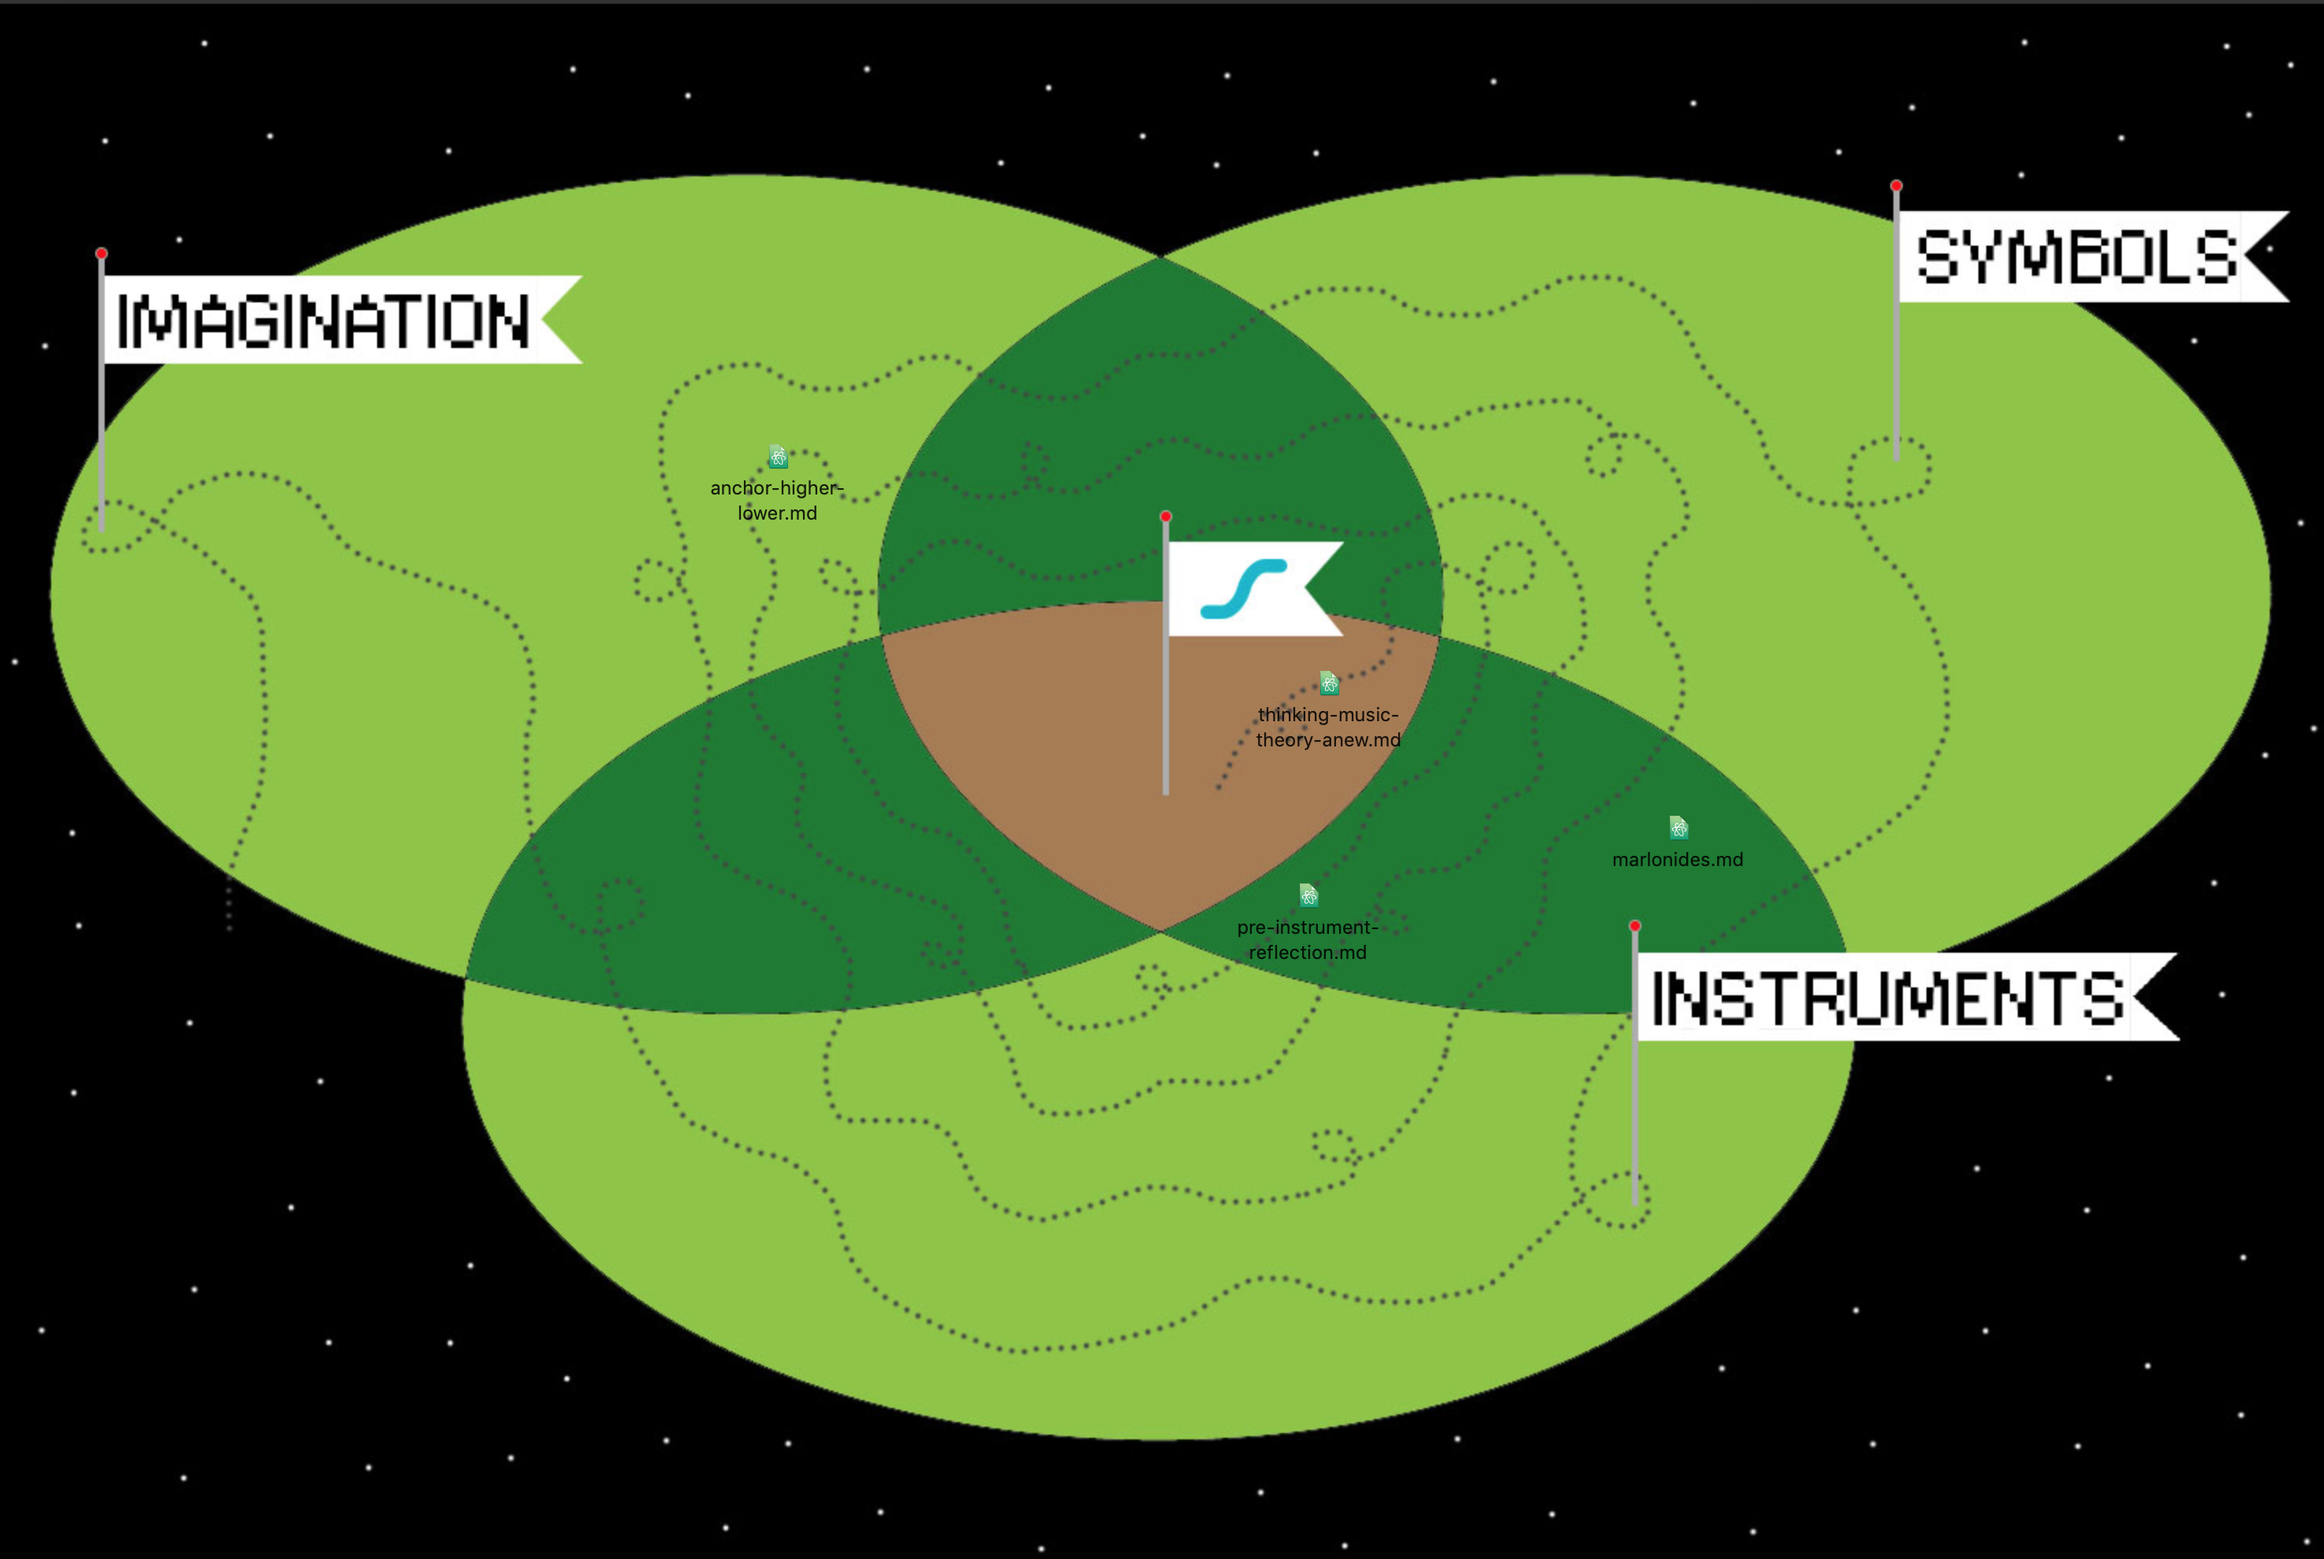
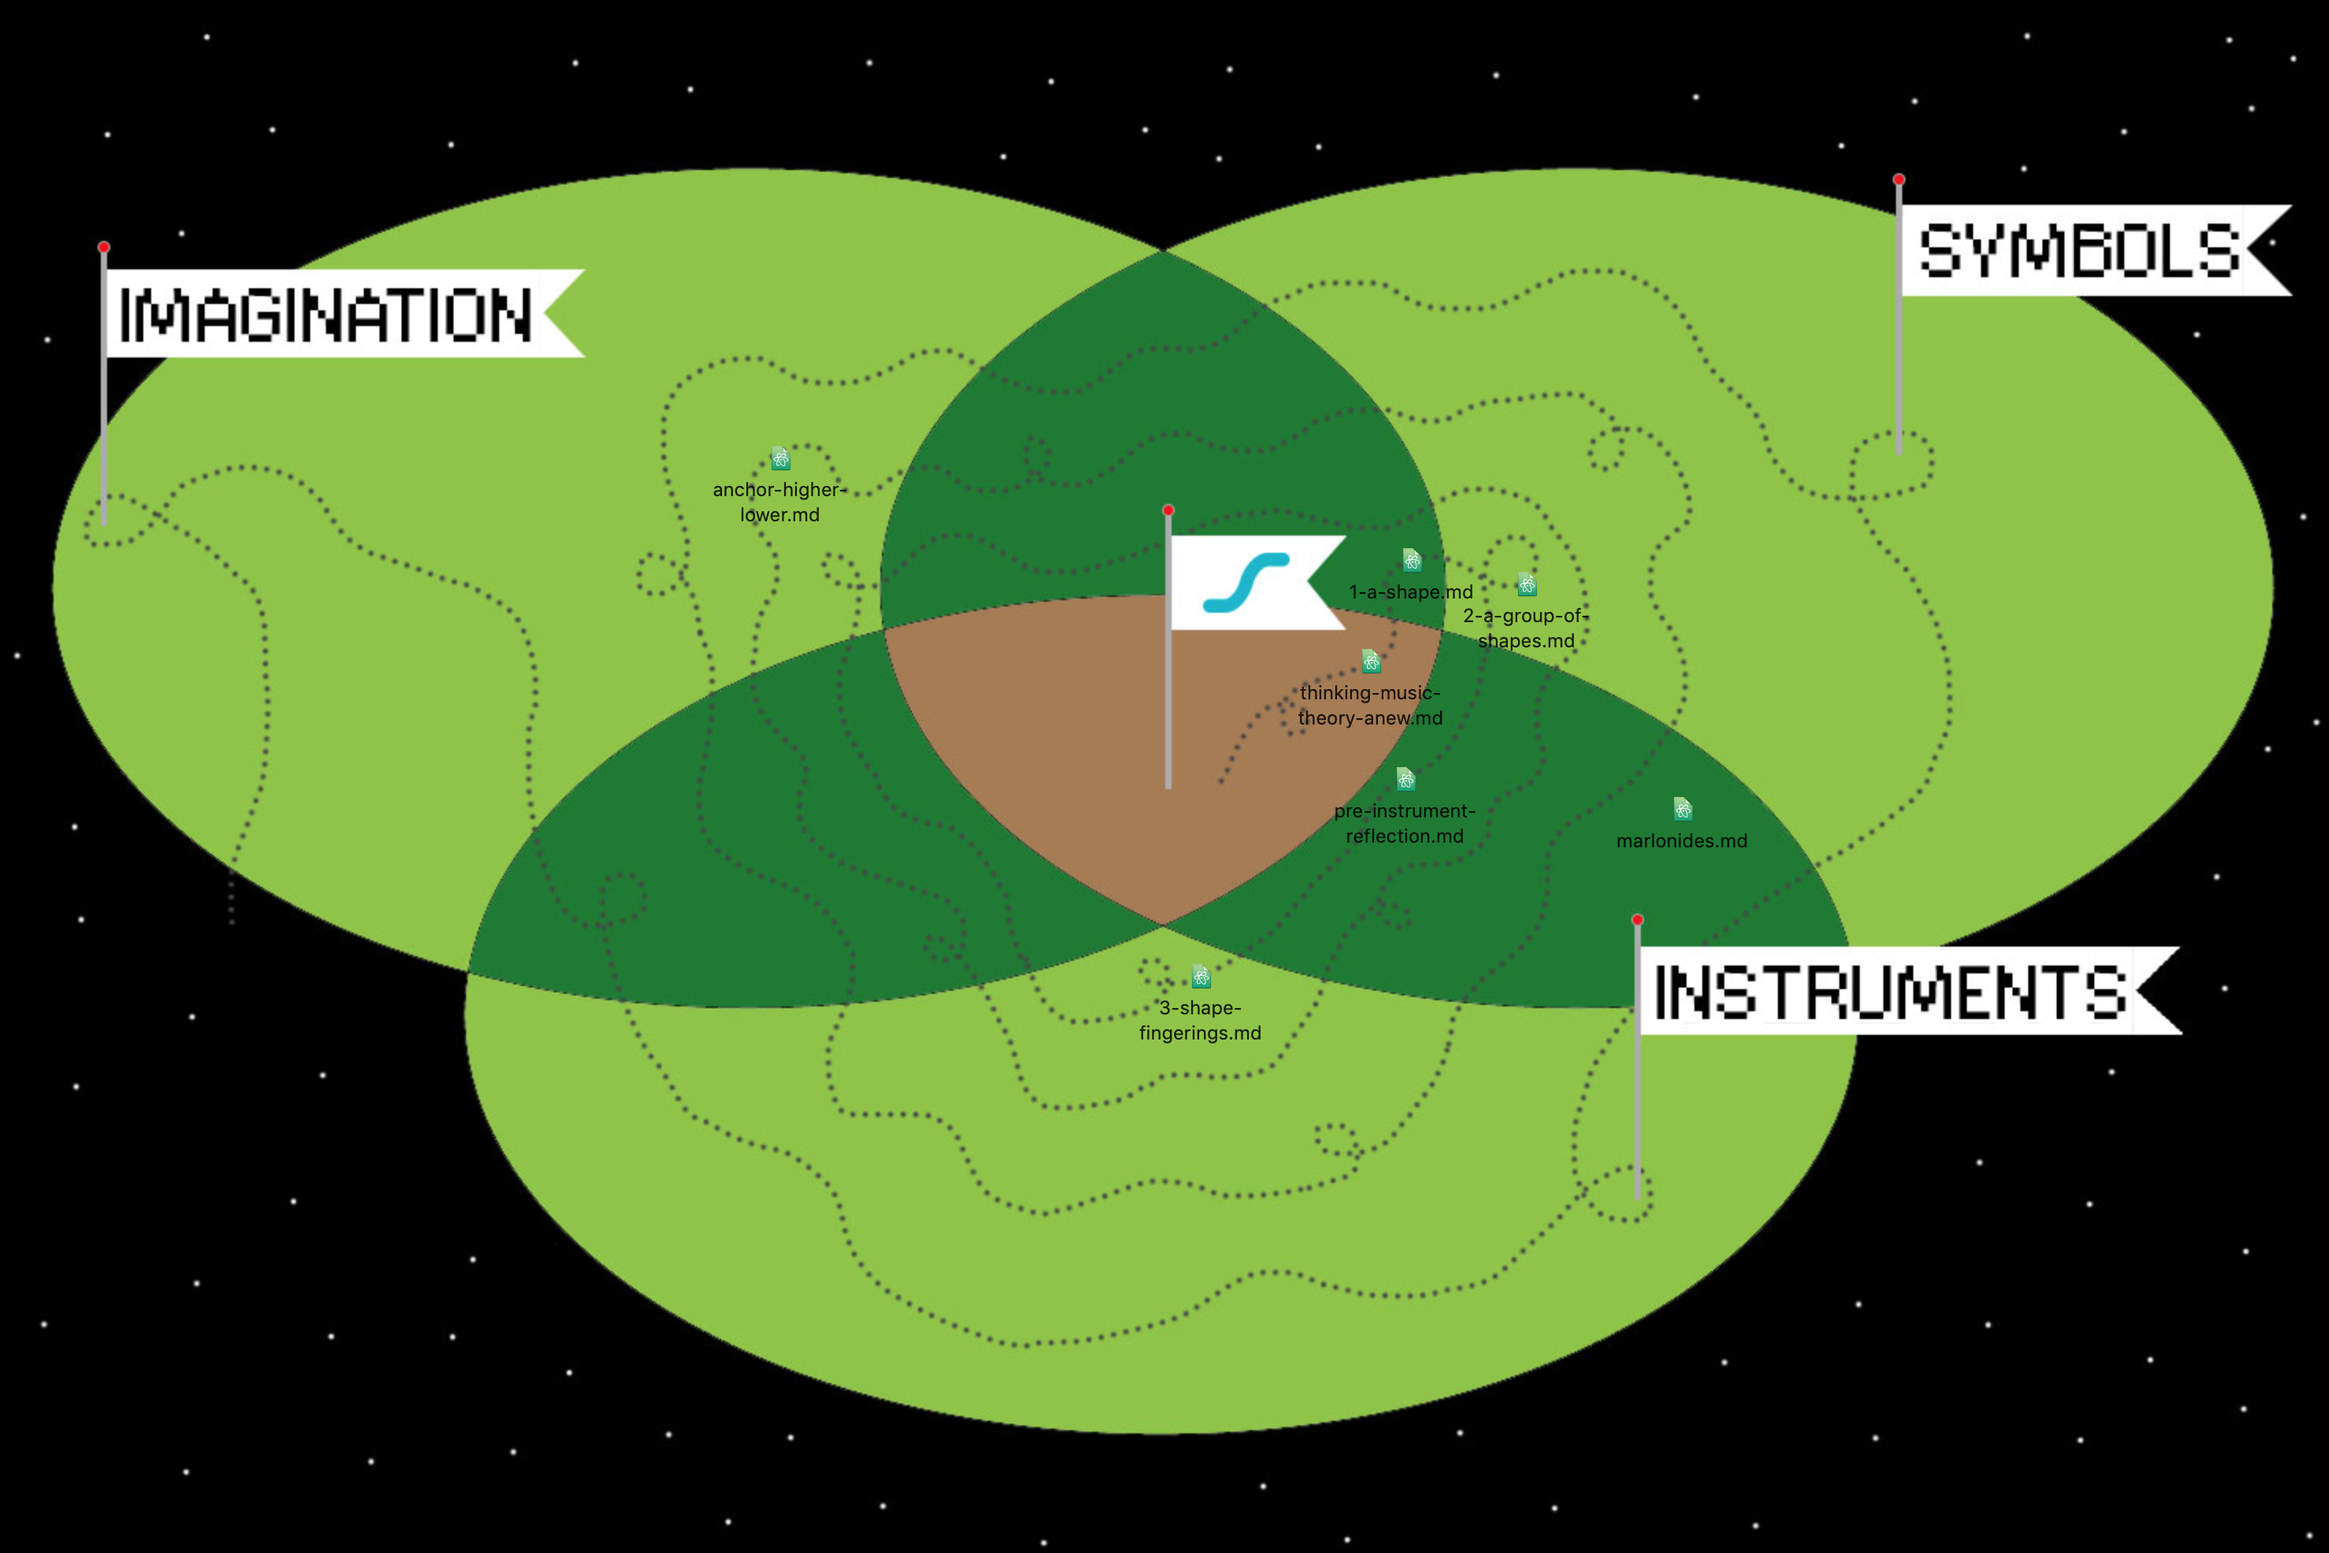
Set up first 3 lessons

diff --git a/world/path/3-shape-fingerings.md b/world/path/3-shape-fingerings.md
@@ -1,0 +1,72 @@
+# Shape Fingerings
+
+## Summary
+
+How hands match the keyboard, and how to play hands together in any shape, beginning on any note, using only one fingering pattern.
+
+This helps develop a natural technique and a tactile reference for playing without looking at the keyboard.
+
+## The Lesson
+
+[start with a demo of what we're gonna do and a little bit of why. think about what of the explanation below is meta-level stuff].
+
+This is too rote:
+
+  There's a relationship between our bodies, and the design of our instruments.
+
+  Look at your hands, they are mirror images of one another.
+
+  from a certain perspective, one side of the keyboard is also a mirror image of the other.
+
+  ![symm kybd](/media/08.2.14%20symm%20kybd.png)
+
+  Our pointer, middle, and ring fingers stick up above our thumbs and pinkies. The keyboard also has keys that stick up above the others.
+
+  What's more, the keyboard is a repeating pattern of hand-shaped groups of keys.
+
+  ![groups symm](/media/09.9.28%20groups%20symm.png)
+
+  By placing our fingers that stick up on the keys that stick up, we can feel how closely the contour of the keyboard matches the contour of our hands.
+
+  ![handsBS](/media/11.2.10%20handsBS.png)
+
+  This is the starting point for Shape Fingerings. Shape Fingerings are a guideline to help develop a natural finger technique and a tactile reference for playing without looking at the keyboard.
+
+  The central rule of Shape Fingerings is to align our fingers that stick up (pointer, middle, and ring fingers) with the keys that stick up (groups of 2 and 3 top keys), and then to move our fingers into each shape beginning from this position.
+
+Steps:
+
+1. just the top keys, all at once, then up and down the kybd. try to feel for it without looking. grab the groups, and your fingers are where they're supposed to be. try to get to where you're playing with the beat, or making up a beat. use the beat as an incentive to hit the notes in time. in fact, get to where you're playing with the beat without looking before moving on. that's a concrete challenge.
+2. add in thumbs. make it really distinct: "thumbs, 1, 2, 3, thumbs, 1, 2"
+3. move into the 5s, etc.
+
+take a break (regularly) and play around, too. don't just do scales.
+
+[A Shape plist]
+[Add5 plist]
+[Add4 plist]
+[Add3 plist]
+
+then back to [a_group] plist to add the rest.
+
+
+
+## Things To Think About
+
+- Reversible keyboard polarity
+- Future: absolute tactile sense, etc.
+- Meta: the design of instruments also reflect the design of musical concepts and theoretical systems.
+
+notes:
+- maybe demo what you're going to be able to do first. then it's more tolerable to go through the rote steps, or to listen to stuff about hands fitting keys, etc.
+- you'll still get auditory feedback if you play a note that's outside the shape
+
+## Resources
+
+- 11.3.3 Provisional pp. 17-21, "Centered Keyboard" and "Shape Fingerings"
+
+The temp player:
+```bash
+python3 -m http.server
+```
+[http://localhost:8000/desktop/player_1/add5.html](http://localhost:8000/david_local/development_local/Method-Sketch/media/temp_player/a_shape.html)

diff --git a/world/path/2-a-group-of-shapes.md b/world/path/2-a-group-of-shapes.md
@@ -1,0 +1,36 @@
+# A Group of Shapes
+
+## Summary
+
+
+
+## The Lesson
+
+**Part A**
+
+Move to the full playlist, play with different shapes. Every shape works the same as the shape you know.
+
+Get to know the new shapes by playing with them. When you start to feel like you've seen each shape that pops up before, go on to Part B.
+
+**Part B**
+
+See the shapes as a system, and name them.
+
+![group of shapes](/media/15.3.6_ultralite.png)
+
+Now, name each new shape when you start to play with it.
+
+
+## Things To Think About
+
+
+
+## Resources
+
+- 13.1.27 lesson 2 script
+
+The temp player:
+```bash
+python3 -m http.server
+```
+[http://localhost:8000/desktop/player_1/add5.html](http://localhost:8000/david_local/development_local/Method-Sketch/media/temp_player/a_group.html)

diff --git a/world/path/1-a-shape.md b/world/path/1-a-shape.md
@@ -1,0 +1,28 @@
+# A Shape
+
+## Summary
+
+
+
+## The Lesson
+
+Here's a current playlist, a snapshot of the world.
+
+And here's how to read a shape.
+
+![dots to shape](/media/21.3.7%20dots_to_shape.png)
+
+
+## Things To Think About
+
+
+
+## Resources
+
+- 13.1.27 lesson 1 script
+
+The temp player:
+```bash
+python3 -m http.server
+```
+[http://localhost:8000/desktop/player_1/add5.html](http://localhost:8000/david_local/development_local/Method-Sketch/media/temp_player/a_shape.html)

diff --git a/world/2-a-group-of-shapes.md b/world/2-a-group-of-shapes.md
@@ -1,0 +1,15 @@
+# A Group of Shapes
+
+## Summary
+
+
+
+## The Lesson
+
+
+
+## Things To Think About
+
+
+
+## Resources

diff --git a/world/3-shape-fingerings.md b/world/3-shape-fingerings.md
@@ -1,0 +1,15 @@
+# Shape Fingerings
+
+## Summary
+
+
+
+## The Lesson
+
+
+
+## Things To Think About
+
+
+
+## Resources

diff --git a/world/1-a-shape.md b/world/1-a-shape.md
@@ -1,0 +1,15 @@
+# A Shape
+
+## Summary
+
+
+
+## The Lesson
+
+
+
+## Things To Think About
+
+
+
+## Resources
